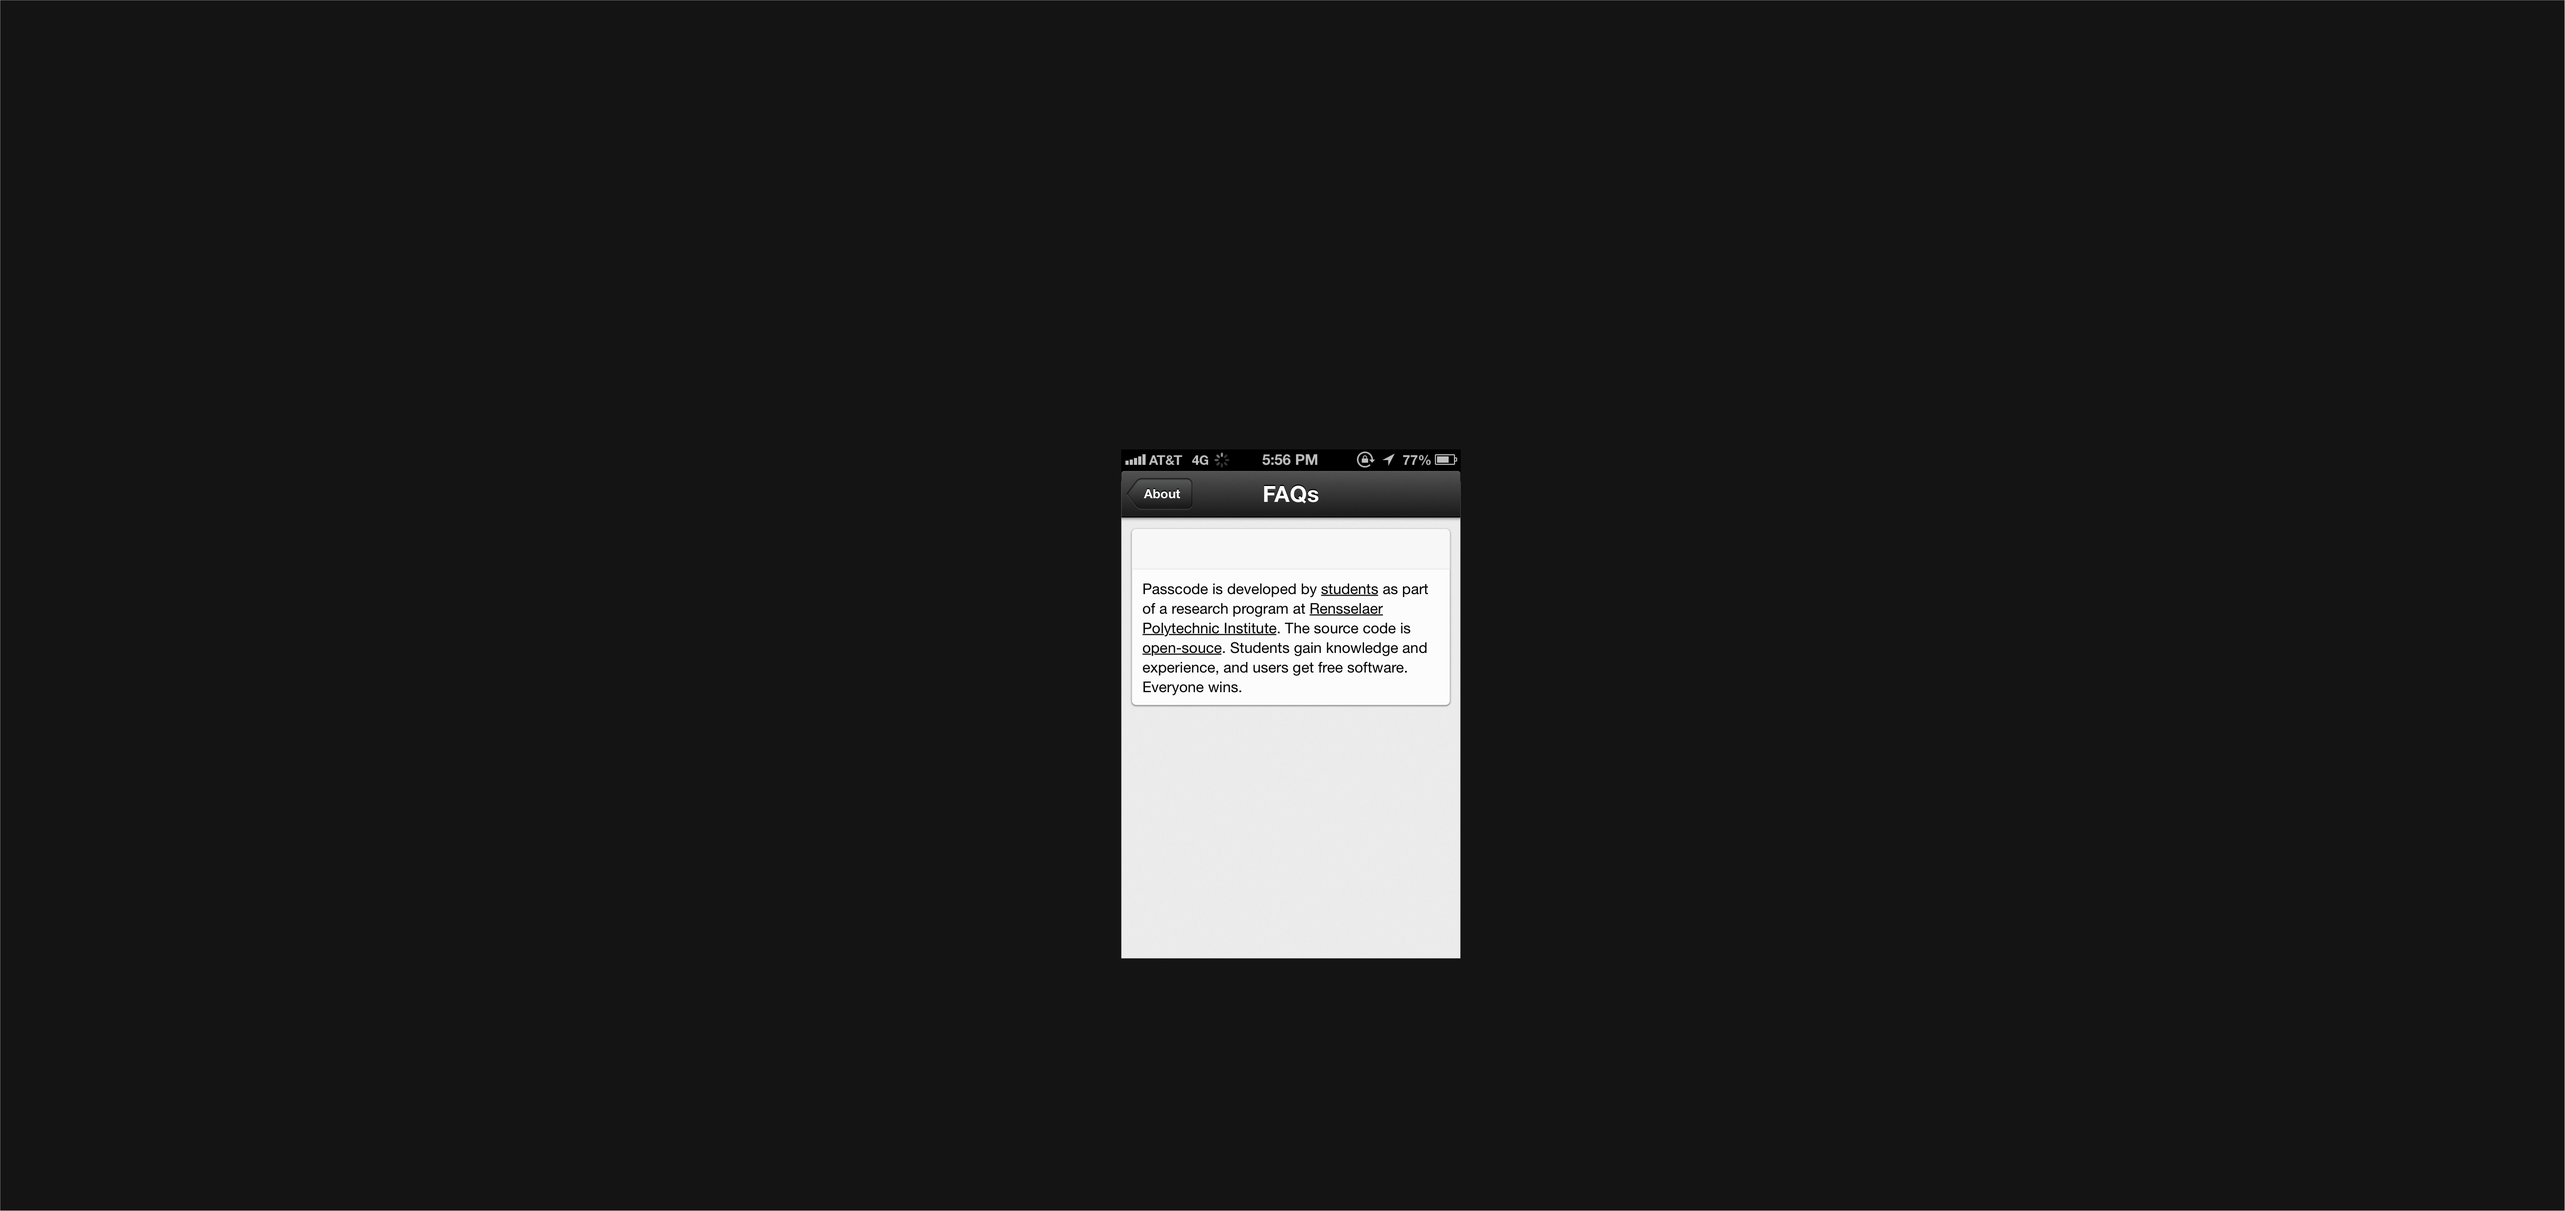
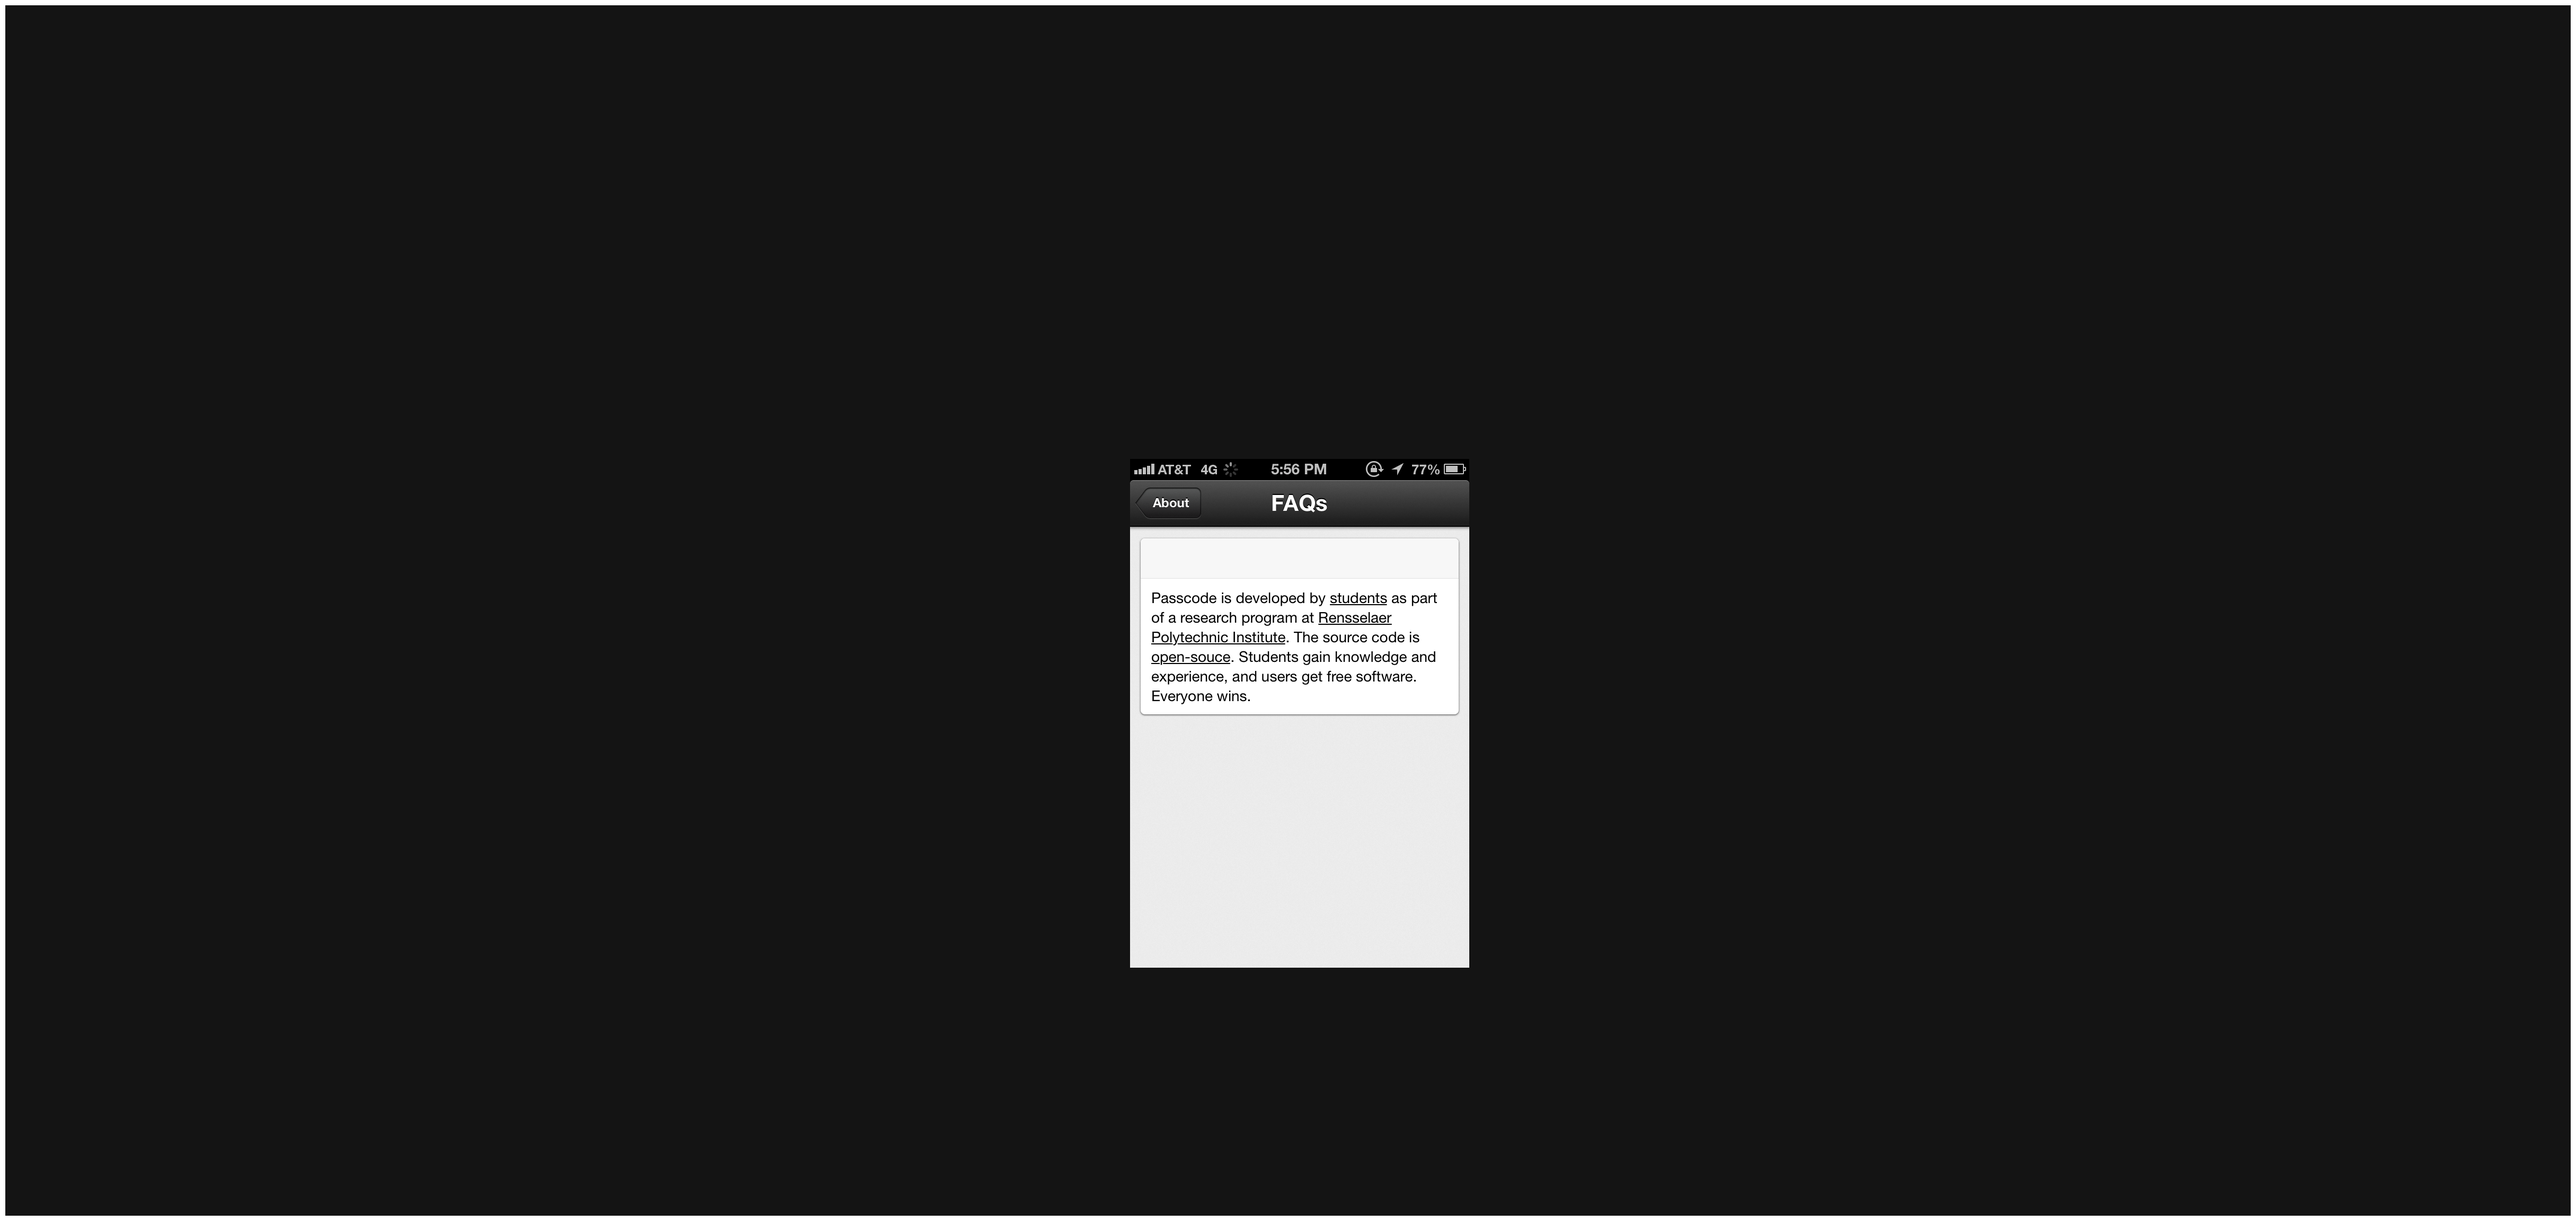
Title changed to FAQs. Fixed an issue where FAQ page would crash on iOS 5 (unrecognized selector). Also, updated background graphics.

Changed region(s): [[0.0, 0.0, 1.0, 1.0], [0.4367, 0.3729, 0.5926, 0.5904]]

diff --git a/Passcode/PCDFAQView.m b/Passcode/PCDFAQView.m
@@ -55,12 +55,12 @@
 	
 	_backgroundMain = [[UIImageView alloc] initWithFrame:CGRectMake(0, 0, 304, 170)];
 	UIImage *main = [UIImage imageNamed:@"FAQBackgroundMain"];
-	[_backgroundMain setImage:[main resizableImageWithCapInsets:UIEdgeInsetsMake(6, 6, 7, 6) resizingMode:UIImageResizingModeTile]];
+	[_backgroundMain setImage:[main resizableImageWithCapInsets:UIEdgeInsetsMake(6, 6, 7, 6)]];
 	[self addSubview:_backgroundMain];
 	
 	_backgroundQuestion = [[UIImageView alloc] initWithFrame:CGRectMake(2, 2, 300, 39)];
 	UIImage *question = [UIImage imageNamed:@"FAQBackgroundQuestion"];
-	[_backgroundQuestion setImage:[question resizableImageWithCapInsets:UIEdgeInsetsMake(4, 4, 4, 4) resizingMode:UIImageResizingModeTile]];
+	[_backgroundQuestion setImage:[question resizableImageWithCapInsets:UIEdgeInsetsMake(4, 4, 4, 4)]];
 	[self addSubview:_backgroundQuestion];
 	
 	_questionLabel = [[UILabel alloc] init];
@@ -84,15 +84,19 @@
 	
 	[_questionLabel removeFromSuperview];
 	[_questionLabel setText:questionText];
-	s = [_questionLabel sizeThatFits:CGSizeMake(280, FLT_MAX)];
+	s = [questionText sizeWithFont:[UIFont boldSystemFontOfSize:14.0f]
+				 constrainedToSize:CGSizeMake(280.0f, FLT_MAX)
+					 lineBreakMode:NSLineBreakByWordWrapping];
 	[_questionLabel setFrame:CGRectMake(10, 8, 280, s.height)];
 	[self addSubview:_questionLabel];
 	
-	[_backgroundQuestion setFrame:CGRectMake(2, 2, 300, s.height + 12)]; // Height + 16 for top and bottom padding.
+	[_backgroundQuestion setFrame:CGRectMake(2, 2, 300, s.height + 12)]; // Height + 12 for top and bottom padding.
 	
 	[_answerLabel removeFromSuperview];
 	[_answerLabel setText:answerText];
-	s = [_answerLabel sizeThatFits:CGSizeMake(280, FLT_MAX)];
+	s = [answerText sizeWithFont:[UIFont systemFontOfSize:14.0f]
+			   constrainedToSize:CGSizeMake(280.0f, FLT_MAX)
+				   lineBreakMode:NSLineBreakByWordWrapping];
 	[_answerLabel setFrame:CGRectMake(10, _backgroundQuestion.frame.origin.y + _backgroundQuestion.frame.size.height + 4, 280, s.height)];
 	[self addSubview:_answerLabel];
 	

diff --git a/Passcode/PCDFAQViewController.m b/Passcode/PCDFAQViewController.m
@@ -52,6 +52,8 @@
 
 - (void)setup
 {
+	[self setTitle:@"FAQs"];
+	
 	_questionsAndAnswers = [[NSMutableArray alloc] initWithCapacity:4];
 	[_questionsAndAnswers addObject:[MTZFrequentlyAskedQuestion faqWithQuestion:@"Are passwords being sent to a server?"
 																	  andAnswer:@"No. No data is ever sent to or from Passcode. All passwords are generated using code within the app itself. Password and other usage data are never sent outside of the app."]];
@@ -113,7 +115,7 @@
 					constrainedToSize:CGSizeMake(280.0f, FLT_MAX)
 						lineBreakMode:NSLineBreakByWordWrapping];
 	
-	CGFloat totalHeight = q.height + a.height + 33; // 33 is for paddings
+	CGFloat totalHeight = q.height + a.height + 34; // 34 is for paddings
 	
 	return totalHeight;
 }
@@ -138,6 +140,7 @@
 - (UITableViewCell *)tableView:(UITableView *)tableView cellForRowAtIndexPath:(NSIndexPath *)indexPath
 {
 	UITableViewCell *c = [[UITableViewCell alloc] init];
+	[c setSelectionStyle:UITableViewCellSelectionStyleNone];
 	PCDFAQView *faqView = [[PCDFAQView alloc] initWithFrame:CGRectMake(8, 5, 304, 118)];
 	[faqView setFAQ:_questionsAndAnswers[indexPath.row]];
 	[c.contentView addSubview:faqView];

diff --git a/Passcode/PCDAboutViewController.m b/Passcode/PCDAboutViewController.m
@@ -67,7 +67,6 @@
 - (IBAction)faqPressed:(id)sender
 {
 	PCDFAQViewController *faq = [[PCDFAQViewController alloc] init];
-	faq.title = @"FAQ";
 	[self.navigationController pushViewController:faq animated:YES];
 }
 
@@ -96,16 +95,16 @@
 {
 	switch ( result ) {
 		case MFMailComposeResultCancelled:
-			NSLog(@"Support Email Cancelled");
+//			NSLog(@"Support Email Cancelled");
 			break;
 		case MFMailComposeResultFailed:
-			NSLog(@"Support Email Failed");
+//			NSLog(@"Support Email Failed");
 			break;
 		case MFMailComposeResultSaved:
-			NSLog(@"Support Email Saved");
+//			NSLog(@"Support Email Saved");
 			break;
 		case MFMailComposeResultSent:
-			NSLog(@"Support Email Sent");
+//			NSLog(@"Support Email Sent");
 			break;
 		default:
 			break;
